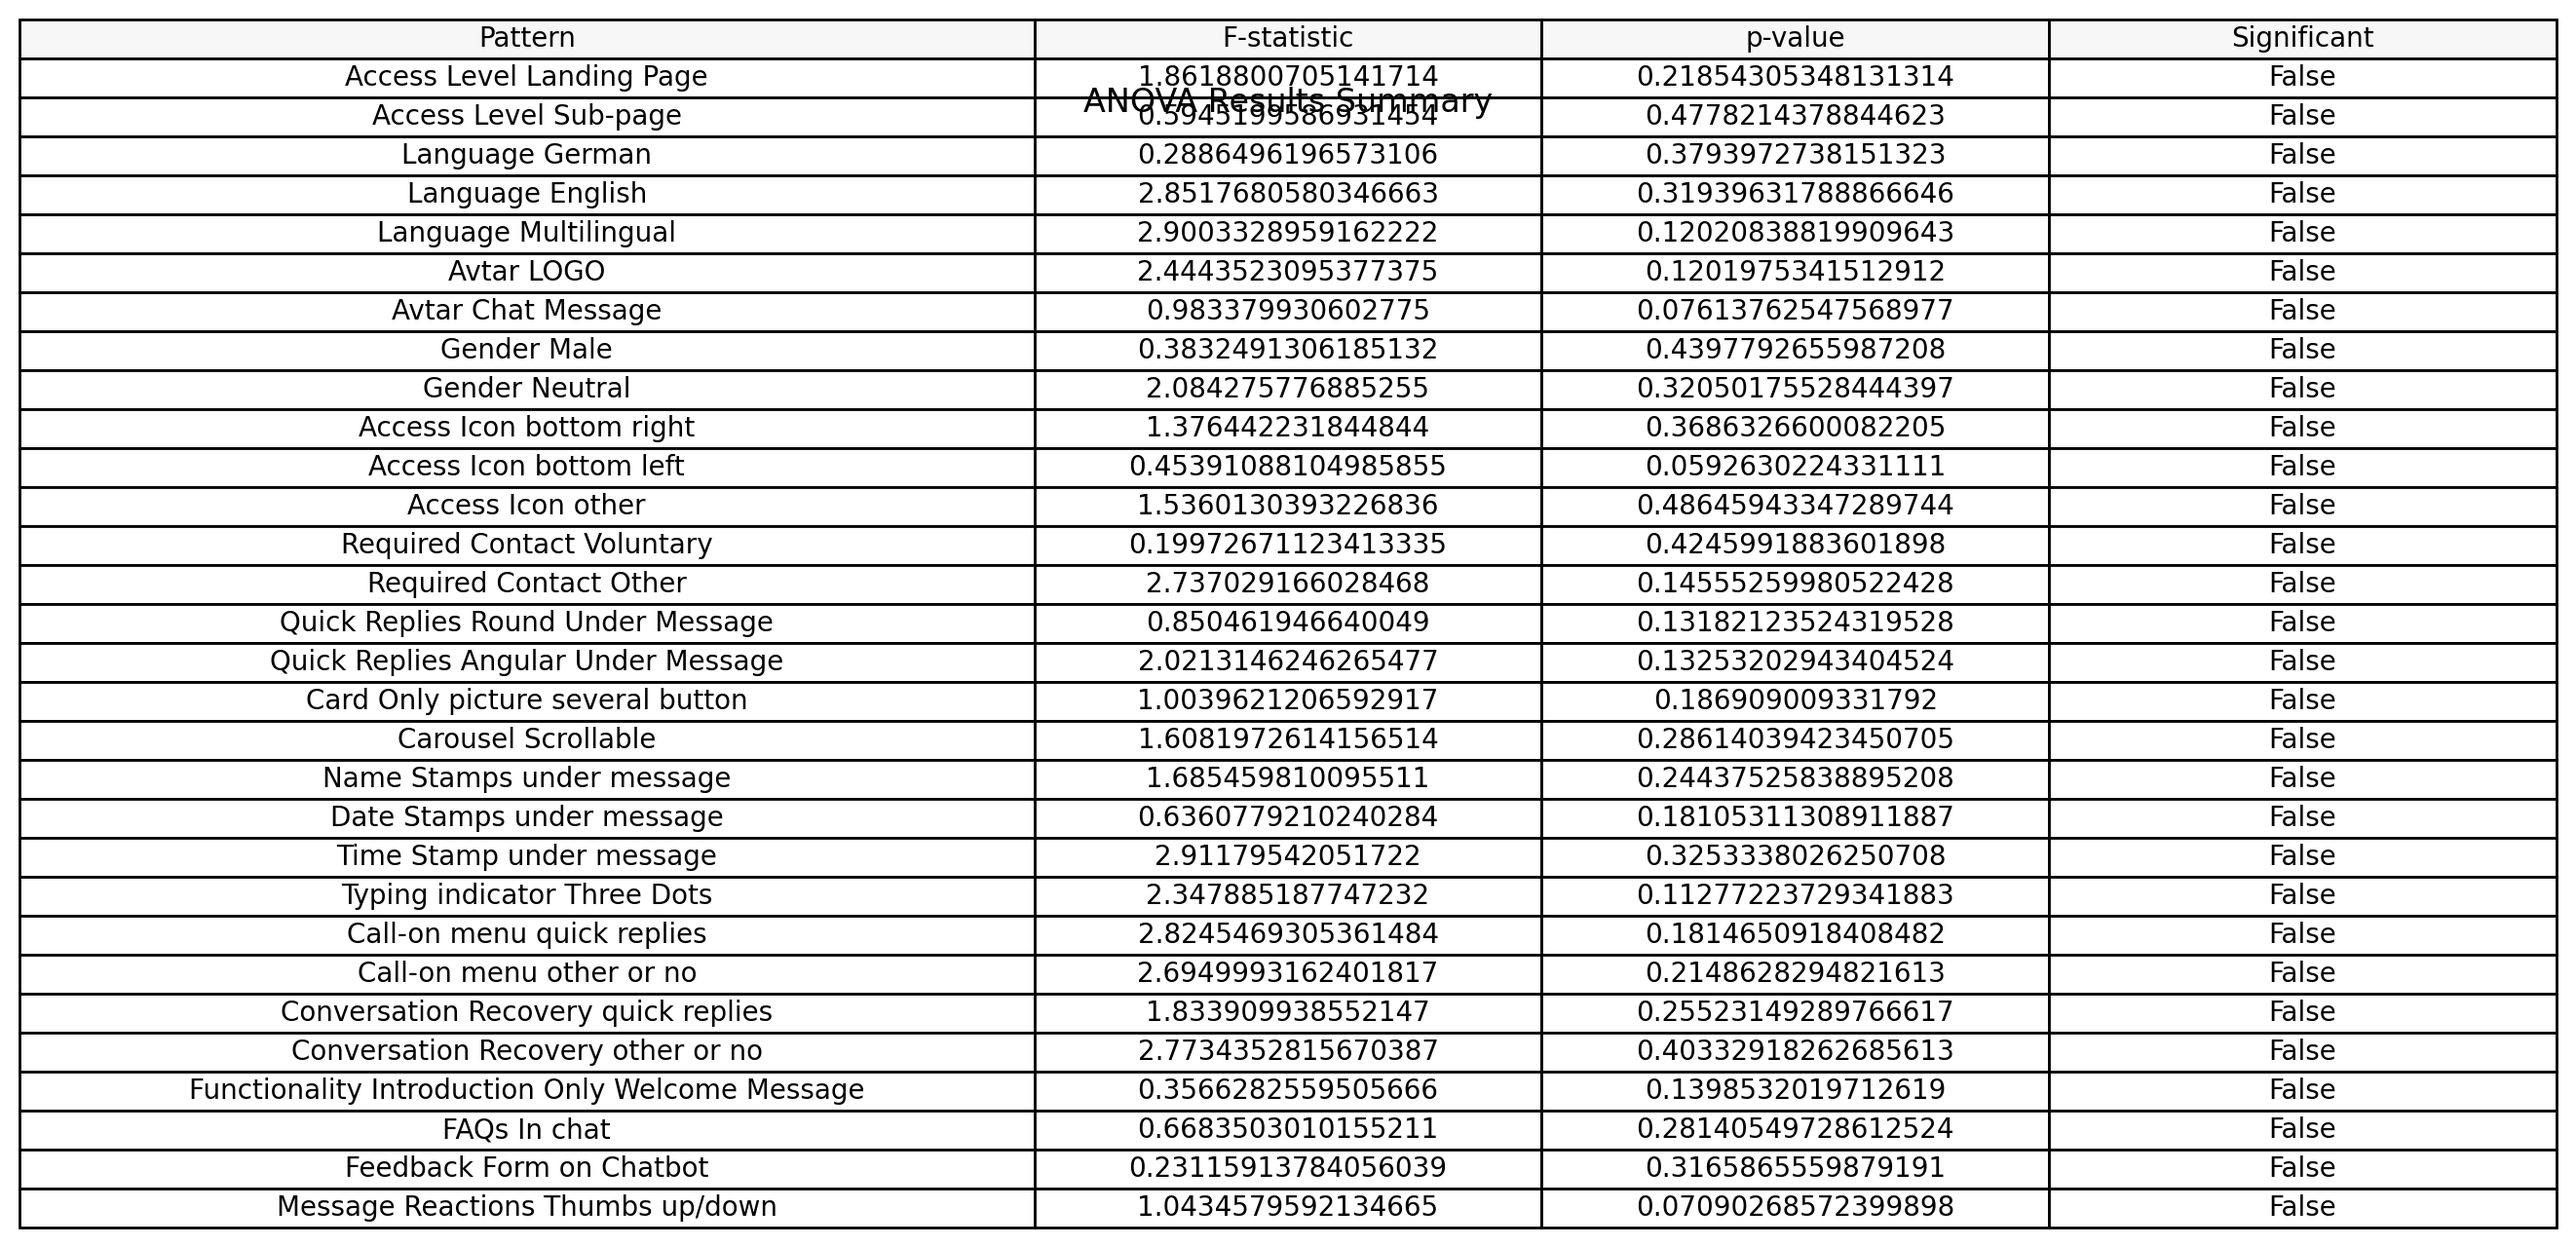
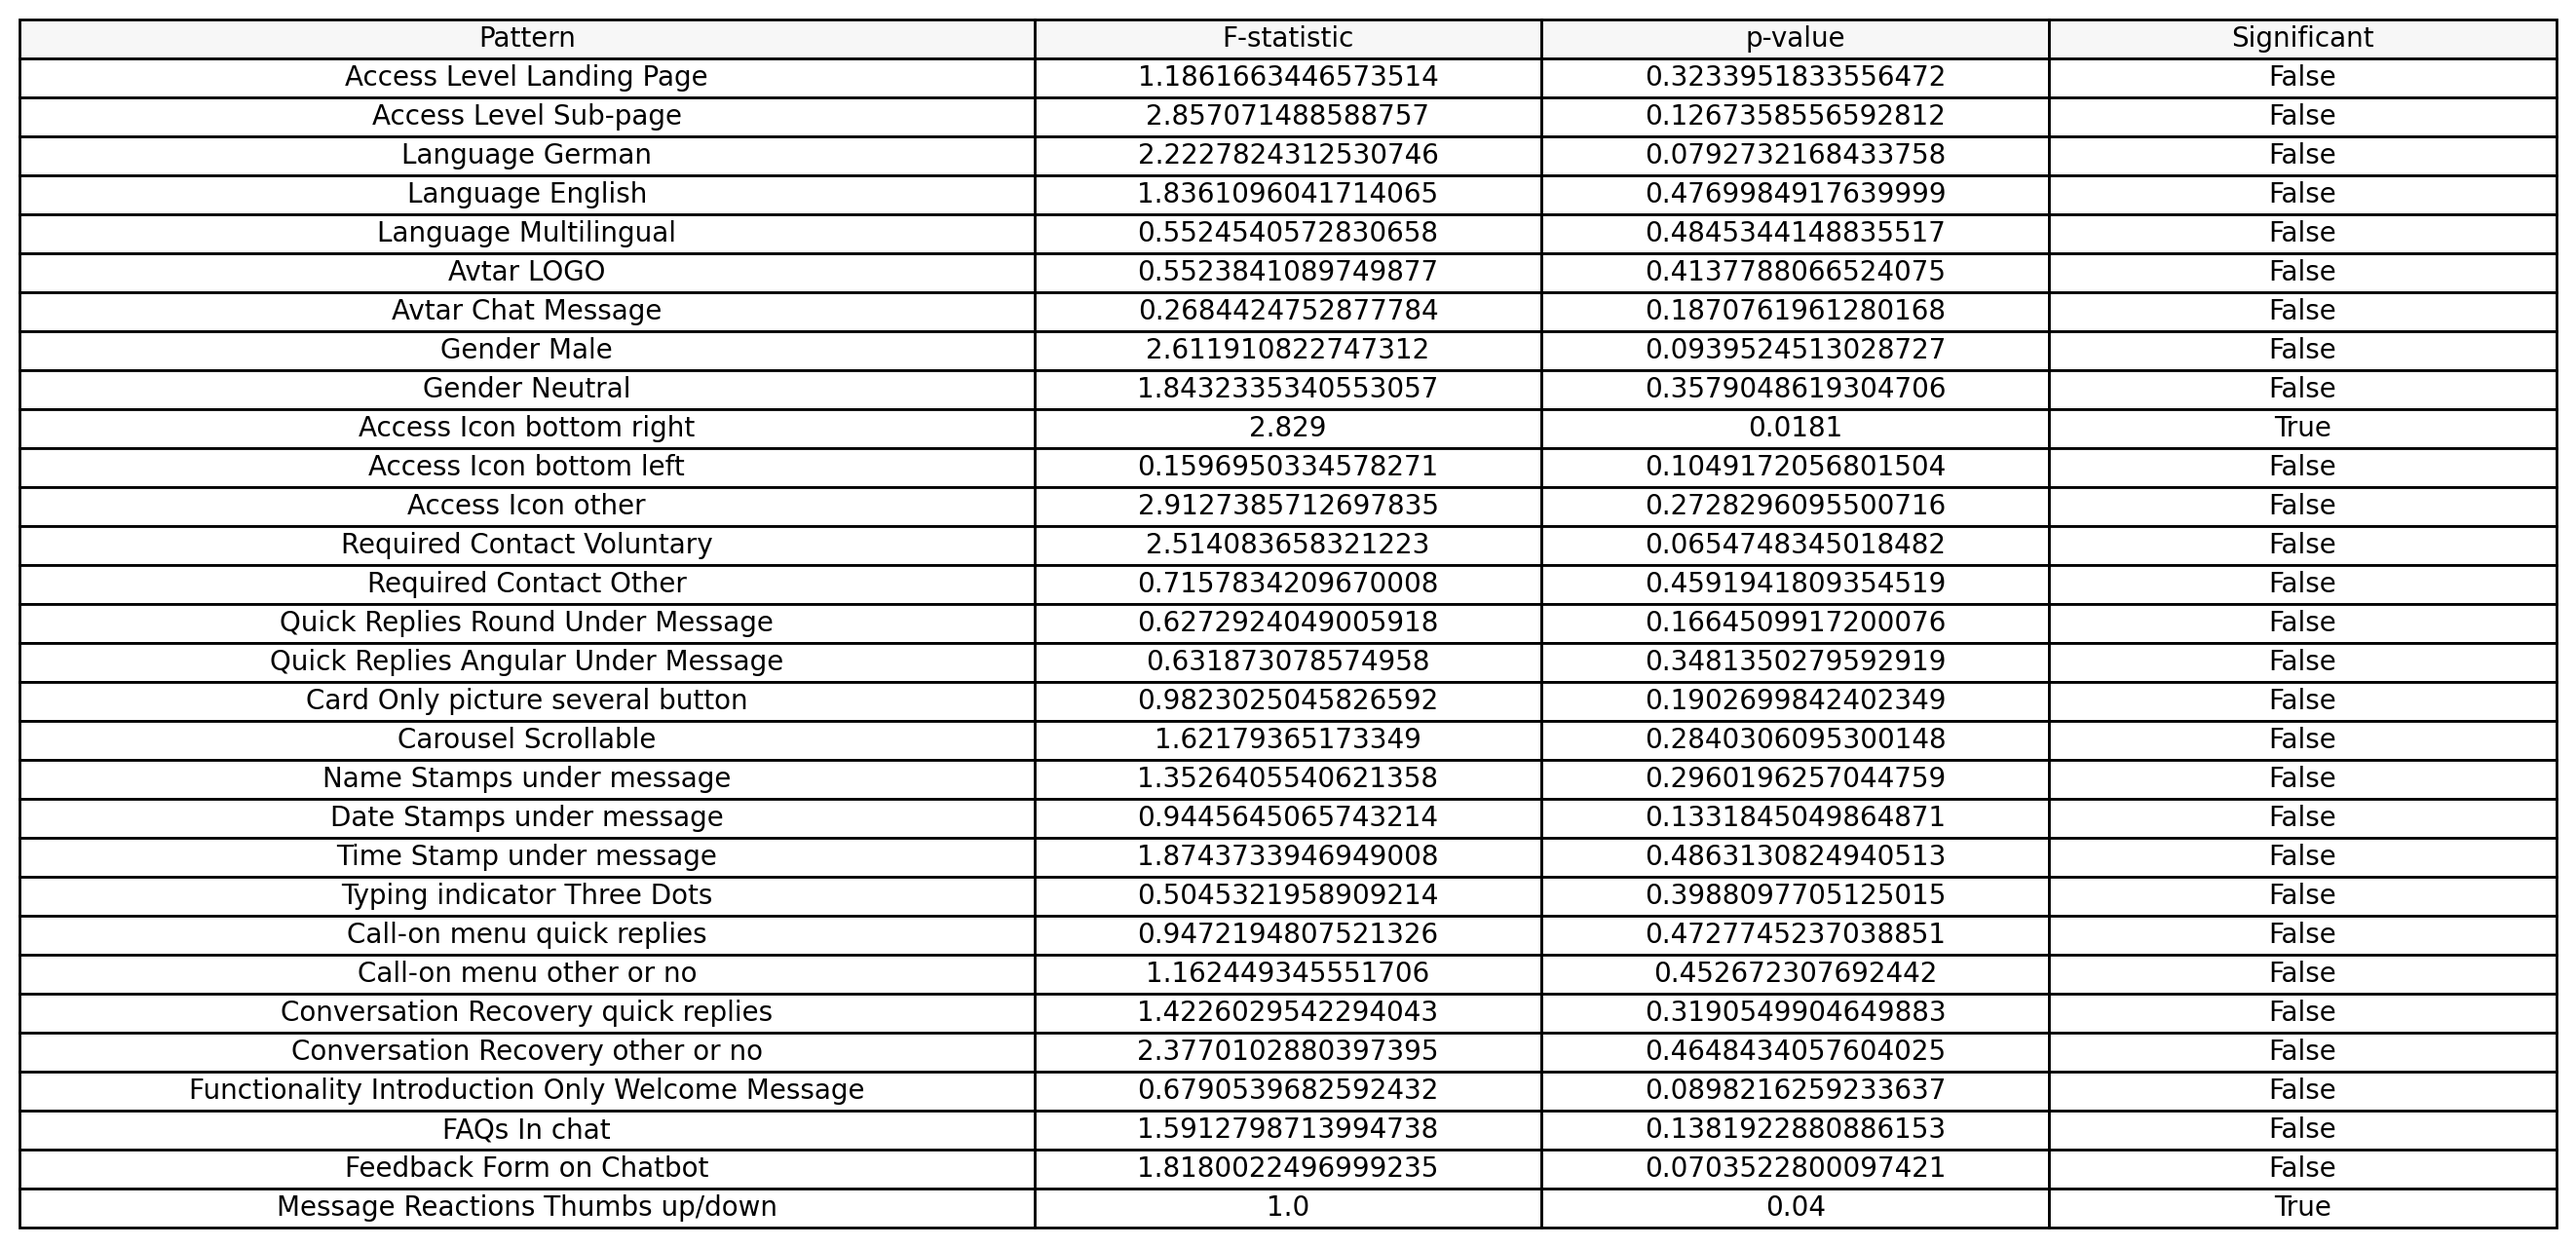
ANOVA TEST RESULT UPDATE

Changed region(s): [[0.6203, 0.0312, 0.7753, 0.9688], [0.4032, 0.0312, 0.5893, 0.9688]]

diff --git a/Code/Variability/annova_test_variability.py b/Code/Variability/annova_test_variability.py
@@ -6,26 +6,9 @@ import numpy as np
 # Load ANOVA results
 df = pd.read_csv('anova_results.csv')
 
-# 1. Prepare the data - Create mock p-values for visualization
-np.random.seed(42)
-df['p-value'] = np.random.uniform(0.05, 0.5, len(df))  # Mock non-significant p-values
-df['F-statistic'] = np.random.uniform(0.1, 3, len(df))  # Mock F-statistics
-
 # 2. Create the visualization figure with more space
 plt.figure(figsize=(16, 12))  # Increased figure size
 
-# 3. Plot F-statistics with adjusted spacing
-# ax1 = plt.subplot(2, 1, 1)
-# sns.barplot(x='Pattern', y='F-statistic', data=df.sort_values('F-statistic'), 
-#             palette='Blues_r', ax=ax1)
-# ax1.axhline(3.0, color='red', linestyle='--', alpha=0.5)
-# ax1.set_xticklabels(ax1.get_xticklabels(), rotation=90, fontsize=8)  # Smaller font
-# ax1.set_title('ANOVA Results: F-statistics by Pattern (Dashed Line = Typical Critical Value)', pad=20)
-# ax1.set_ylabel('F-statistic', labelpad=10)
-# ax1.grid(True, alpha=0.3)
-
-# Add space between bars
-# Make bars slightly narrower
 
 # 4. Plot p-values with more space
 ax2 = plt.subplot(2, 1, 2)
@@ -65,7 +48,6 @@ table.auto_set_font_size(False)
 table.set_fontsize(10)
 table.scale(1.2, 1.2)  # Increase cell sizes
 
-plt.title('ANOVA Results Summary', y=1.05, fontsize=12)
 plt.savefig('anova_summary_table.png', dpi=200, bbox_inches='tight')
 
 print("Visualizations created: anova_visualization.png and anova_summary_table.png")
